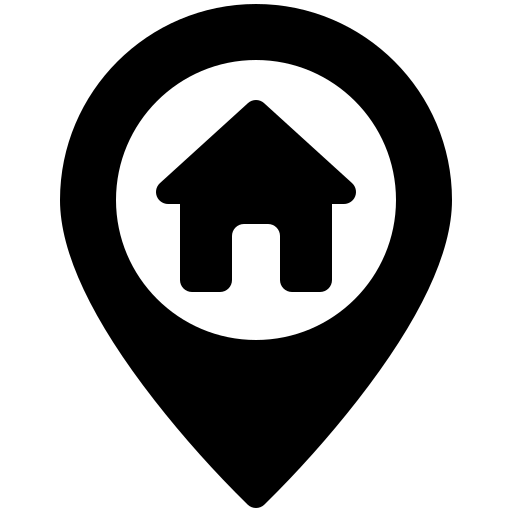
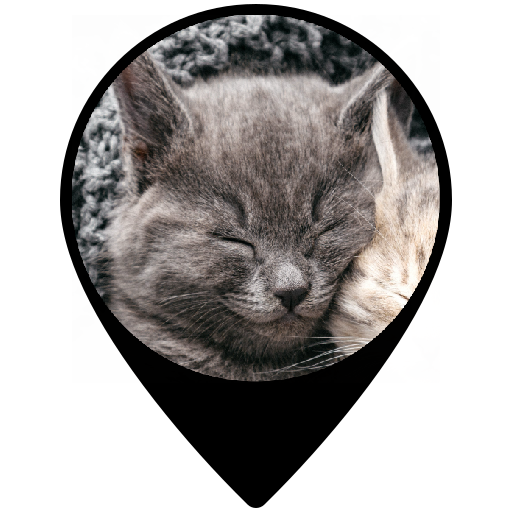
img

diff --git a/templates/index.html b/templates/index.html
@@ -295,80 +295,6 @@
 
 
     <script src="https://unpkg.com/@teleporthq/teleport-custom-scripts"></script>
-{#    <script>#}
-{#      window.onload = () => {#}
-{#        const runAllScripts = () => {#}
-{#          initializeAllSliders();#}
-{#        };#}
-{##}
-{#        const listenForUrlChanges = () => {#}
-{#          let url = location.href;#}
-{#          document.body.addEventListener(#}
-{#            "click",#}
-{#            () => {#}
-{#              requestAnimationFrame(() => {#}
-{#                if (url !== location.href) {#}
-{#                  runAllScripts();#}
-{#                  url = location.href;#}
-{#                }#}
-{#              });#}
-{#            },#}
-{#            true#}
-{#          );#}
-{#        };#}
-{##}
-{#        const initializeAllSliders = () => {#}
-{#          const allSliders = document.querySelectorAll('[data-type="slider"]');#}
-{#          allSliders.forEach((carrousel) => {#}
-{#            initializeSlider(carrousel);#}
-{#          });#}
-{#        };#}
-{##}
-{#        const initializeSlider = (carrousel) => {#}
-{#          let currentSlide = 0;#}
-{##}
-{#          const slides = carrousel.querySelectorAll('[data-type="slide"]');#}
-{#          const nextSlideBtns = carrousel.querySelectorAll(#}
-{#            '[data-action="nextSlide"]'#}
-{#          );#}
-{#          const previousSlideBtns = carrousel.querySelectorAll(#}
-{#            '[data-action="previousSlide"]'#}
-{#          );#}
-{##}
-{#          const changeSlide = (slideIndex, action) => {#}
-{#            currentSlide = slideIndex;#}
-{##}
-{#            switch (action) {#}
-{#              case "next":#}
-{#                slideIndex === slides.length - 1#}
-{#                  ? (currentSlide = 0)#}
-{#                  : currentSlide++;#}
-{#                break;#}
-{#              case "previous":#}
-{#                slideIndex === 0#}
-{#                  ? (currentSlide = slides.length - 1)#}
-{#                  : currentSlide--;#}
-{#            }#}
-{##}
-{#            carrousel.style.transform = `translateX(${-100 * currentSlide}%)`;#}
-{#          };#}
-{##}
-{#          previousSlideBtns.forEach((btn) => {#}
-{#            btn.addEventListener("click", () =>#}
-{#              changeSlide(currentSlide, "previous")#}
-{#            );#}
-{#          });#}
-{##}
-{#          nextSlideBtns.forEach((btn) => {#}
-{#            btn.addEventListener("click", () =>#}
-{#              changeSlide(currentSlide, "next")#}
-{#            );#}
-{#          });#}
-{#        };#}
-{##}
-{#        runAllScripts();#}
-{#      };#}
-{#    </script>#}
 
 
   </body>

diff --git a/templates/second.html b/templates/second.html
@@ -195,6 +195,10 @@
                                 map: map,
                                 position: location,
                                 title: address,
+                                icon: {
+                                    url: '/static/location.png',
+                                    scaledSize: new google.maps.Size(32, 40), // Adjust the size as needed
+                                }
                             });
 
                             // Add click event to show styled info window
